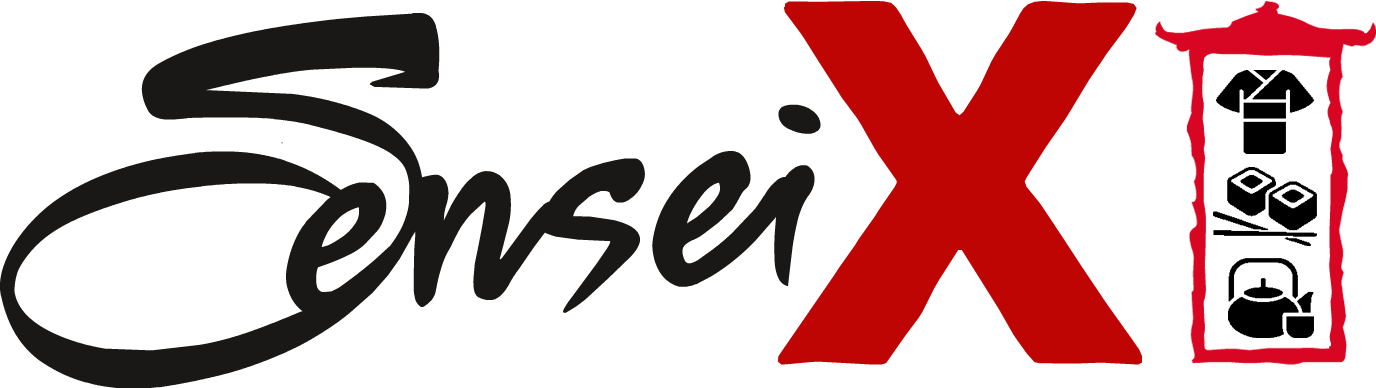
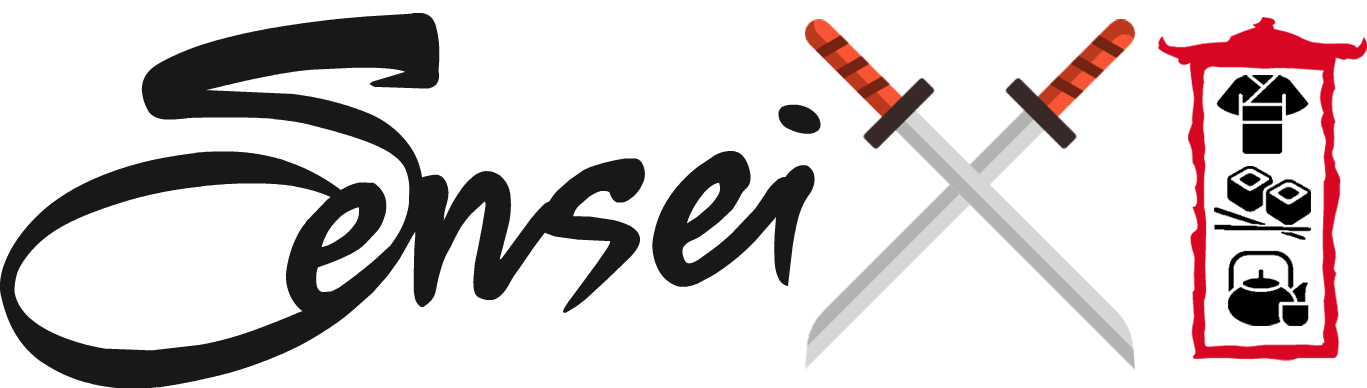
styling the app.

diff --git a/client/public/index.html b/client/public/index.html
@@ -20,6 +20,7 @@
 
     <!-- CSS
   –––––––––––––––––––––––––––––––––––––––––––––––––– -->
+    <link rel="css/stylesheet" href="css/index.css">
     <link rel="css/stylesheet" href="css/normalize.css">
     <link rel="css/stylesheet" href="css/skeleton.css">
     <link rel="css/stylesheet" href="css/main.css">
@@ -27,7 +28,12 @@
     <!-- Favicon
   –––––––––––––––––––––––––––––––––––––––––––––––––– -->
     <link rel="icon" type="image/png" href="images/fav.ico">
-
+    <link href="https://fonts.googleapis.com/earlyaccess/sawarabimincho.css" rel="stylesheet" />
+    <style>
+      body {
+        background: #7a1300 url('images/bg_01.png') center -200px no-repeat;
+      }
+    </style>
 </head>
 
 <body>

diff --git a/client/src/components/splash-page/index.css b/client/src/components/splash-page/index.css
@@ -1,26 +1,28 @@
 .loginlink {
     text-decoration: none;
     cursor: pointer;
-    color: #bf0404;
-    padding-left: 30%;
+    color: #fff;
     position: relative;
-    display: inline-block;
-    margin: 15px 25px;
+    display: block;
+    margin: 45px 25px;
     outline: none;
     text-transform: uppercase;
     letter-spacing: 1px;
-    font-weight: 400;
+    font-weight: 600;
     text-shadow: 0 0 1px rgba(255, 255, 255, 0.3);
     font-size: 1.35em;
+    text-align: center;
 }
 
 .what {
-    padding-left: 25%;
-    font-size: 30px;
+    text-align: center;
+    font-size: 19px;
+    position: relative;
+    top: -40px;
 }
 
 .loginlogo {
-    width: 60%;
+    width: 50%;
     padding-top: 100px;
     padding-bottom: 50px;
     padding-left: 25%;

diff --git a/client/src/components/guess-form/index.css b/client/src/components/guess-form/index.css
@@ -1,0 +1,22 @@
+#guessButton.button {
+      background: #7a0000;
+  background-image: -webkit-linear-gradient(top, #7a0000, #54031a);
+  background-image: -moz-linear-gradient(top, #7a0000, #54031a);
+  background-image: -ms-linear-gradient(top, #7a0000, #54031a);
+  background-image: -o-linear-gradient(top, #7a0000, #54031a);
+  background-image: linear-gradient(to bottom, #7a0000, #54031a);
+  color: #fff;
+  border-color: #3c0011;
+}
+
+input#userGuess {
+    background: none;
+    border: none;
+    border-bottom: 1px solid #000;
+    border-radius: 0;
+    margin-right: 25px;
+}
+input#userGuess::placeholder {
+    color: #f7f7f7;
+    
+}

diff --git a/client/src/components/questions-page/index.js b/client/src/components/questions-page/index.js
@@ -38,15 +38,9 @@ export class QuestionPage extends React.Component {
             <ul className="question-list">
             <Header />
                 <UserData />
-                <p>Question</p>
-                {/*<ul>
-                {questions}
-                </ul>
-                <p>Matching Answers</p>
-                <ul>
-                {answers}
-                </ul>*/}
+                
                 <div className="game-block eight columns">
+                    <p>Question</p>
                     <h1>{this.props.questions[this.props.currentQIndex]}</h1>
                     <GuessForm />
                 </div>

diff --git a/client/src/components/guess-form/index.js b/client/src/components/guess-form/index.js
@@ -2,7 +2,8 @@ import React from 'react';
 import {connect} from 'react-redux';
 import {makeGuess} from './actions';
 import {setQEnqueueCut, setQRequeue, addPoint} from '../questions-page/actions';
-import {addCorrect, addWrong} from '../userdata/actions'
+import {addCorrect, addWrong} from '../userdata/actions';
+import './index.css';
 
 export class GuessForm extends React.Component {
     submitGuess(event) {

diff --git a/client/src/components/userdata/index.js b/client/src/components/userdata/index.js
@@ -41,7 +41,7 @@ export class UserData extends React.Component {
         let name = this.state.name;
 
         return (
-            <ul className="user-list three columns">
+            <ul className="user-list two columns">
                 <p>{gitHubHandle}<span>{name}</span></p>
                 <ul className="userscores">
                     <li>Score: {this.props.points}</li>

diff --git a/client/src/components/header/index.js b/client/src/components/header/index.js
@@ -4,7 +4,7 @@ import './index.css';
 import '../../css/main.css';
 import '../../css/normalize.css';
 import '../../css/skeleton.css';
-import senseiLogo from './images/senseiX.png';
+import senseiLogo from './images/senseix.png';
 import Logout from '../logout';
 
 export function Header (props) {

diff --git a/client/src/components/questions-page/actions.js b/client/src/components/questions-page/actions.js
@@ -27,9 +27,9 @@ export const addPoint = () => ({
     type: ADD_POINT
 })
 
-// const fetchCurrentQIndex = () => ({
-//     type: 'FETCH_CURRENT_Q_INDEX'
-// })
+const fetchCurrentQIndex = () => ({
+    type: 'FETCH_CURRENT_Q_INDEX'
+})
 
 const requestDataFromAPI = () => ({
   type: 'REQUEST_DATA'

diff --git a/client/src/components/questions-page/index.css b/client/src/components/questions-page/index.css
@@ -7,3 +7,12 @@
 .userscores li {
     list-style: none;
 }
+
+.game-block {
+    padding-left: 25px;
+    text-align: center;
+}
+.game-block h1 {
+    font-size: 5em;
+    font-family: "Sawarabi Mincho"; 
+}

diff --git a/client/src/components/splash-page/index.js b/client/src/components/splash-page/index.js
@@ -1,5 +1,5 @@
 import React from 'react';
-import senseiLogo from './images/senseiX.png';
+import senseiLogo from './images/senseix.png';
 import './index.css';
 
 export default function SplashPage() {

diff --git a/client/src/components/header/index.css b/client/src/components/header/index.css
@@ -1,5 +1,5 @@
 .logo {
-    width: 400px;
+    width: 250px;
     padding-top: 25px;
     padding-left: 25px;
     display: inline-block;

diff --git a/client/public/css/index.css b/client/public/css/index.css
@@ -1,0 +1,3 @@
+body {
+    background: url('images/bg_01.png');
+}
